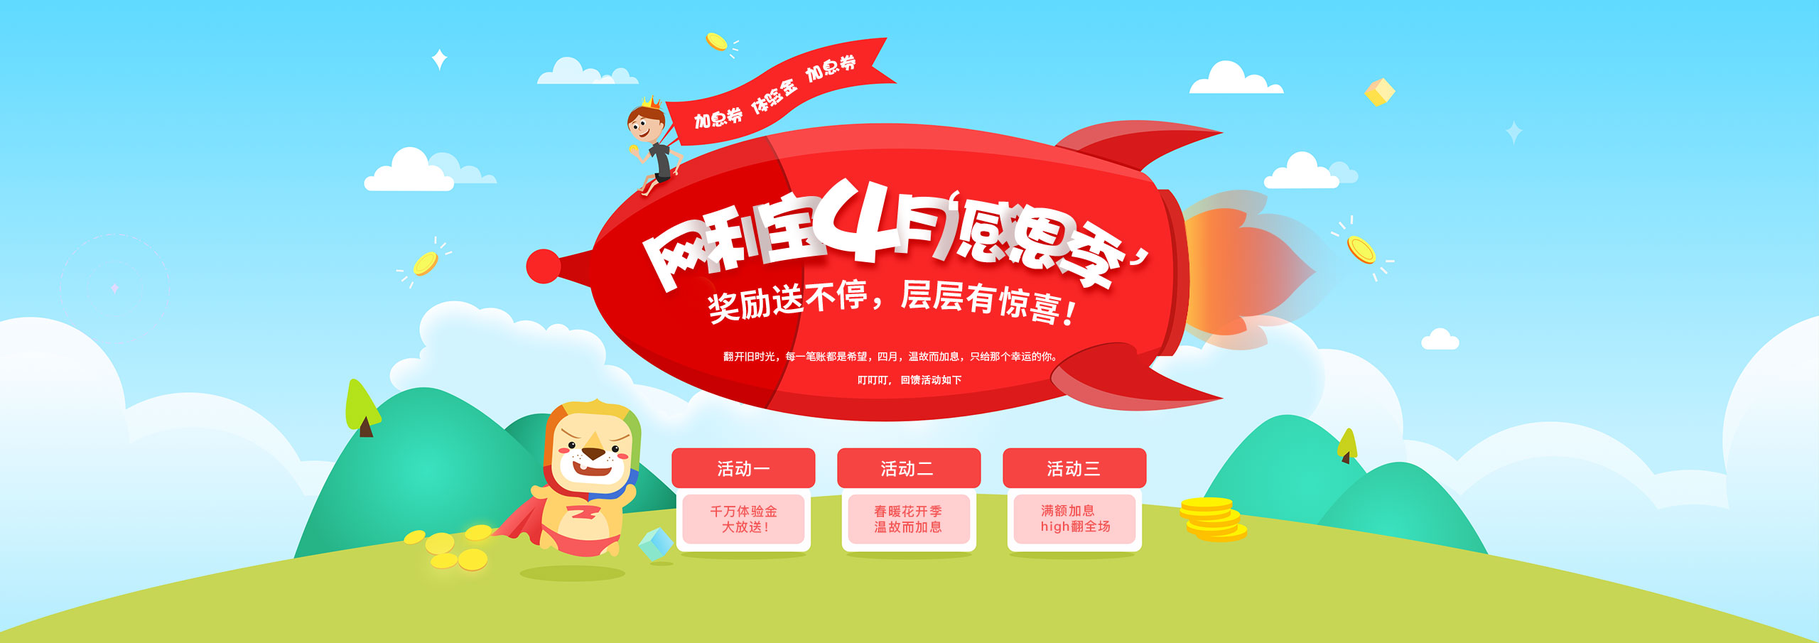
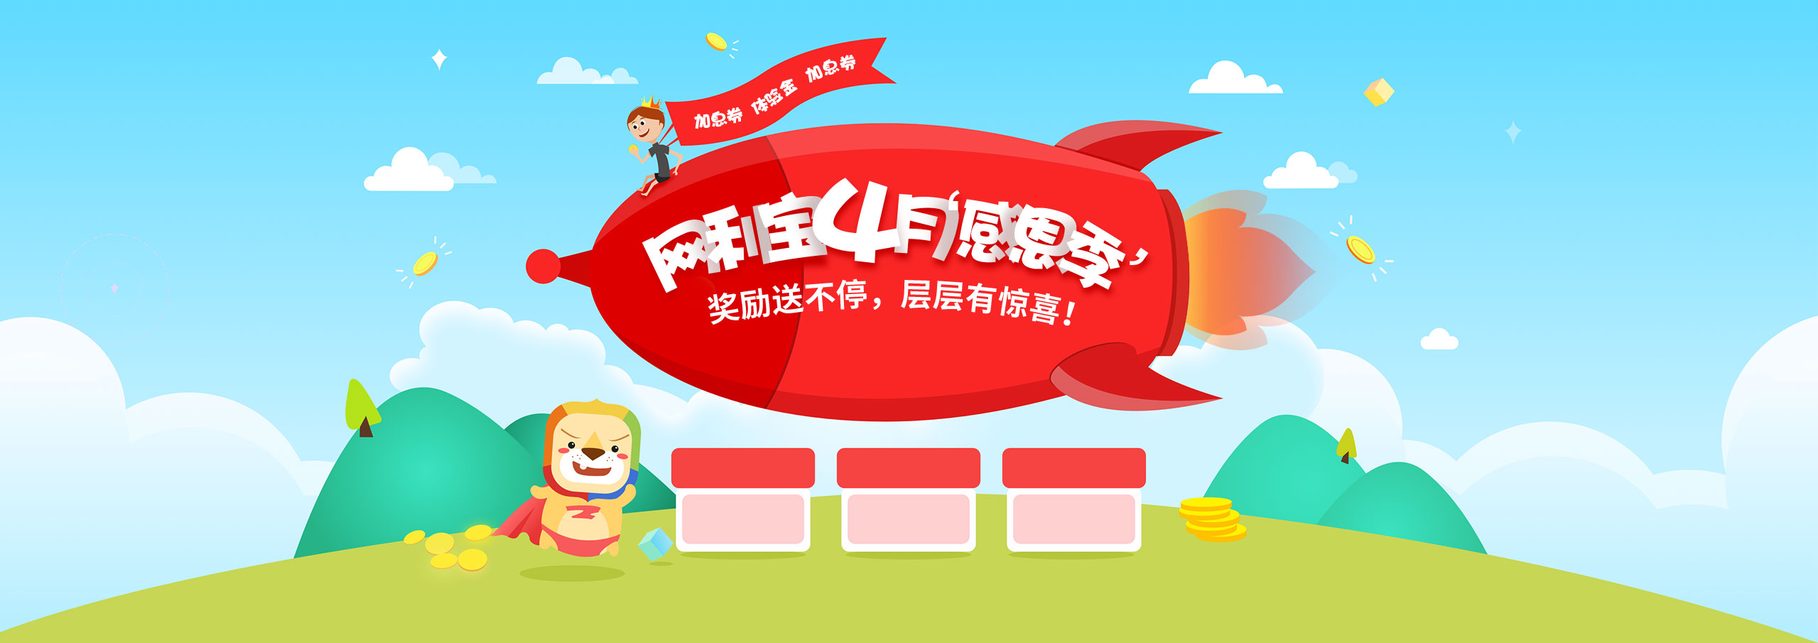
提交4月活动文字修改

diff --git a/static/styles/pc_activity/april_mobilization.css b/static/styles/pc_activity/april_mobilization.css
@@ -1,1 +1,1 @@
-.body_wrap{width:100%}.banner{width:100%;height:905px;background:url(/static/imgs/pc_activity/april_mobilization/banner.jpg) no-repeat center top}#main{width:100%;background-image:url(/static/imgs/pc_activity/april_mobilization/web_bg.jpg);background-color:#eee5bf;background-repeat:repeat-x}#main_center{width:1100px;display:block;margin:0 auto}#main_center .title_img{width:100%;display:block;text-align:center;color:#fff;font-size:40px}#main_center .title_img_1{height:86px;background:url(/static/imgs/pc_activity/april_mobilization/title_img_1.png);padding:0 338px 0 213px;line-height:86px}#main_center .title_small{width:100%;text-align:center;line-height:30px;color:#587d00;font-size:17px}#main_center .title_big_0{padding:25px 0 0 0}#main_center .title_small_1{padding:0 0 24px}#main_center .grass{position:absolute;z-index:2;width:85px;height:39px;display:block;background:url(/static/imgs/pc_activity/april_mobilization/grass.png)}#main_center .table{width:100%;position:relative}#main_center .table thead{width:100%;height:66px}#main_center .table thead th{height:66px;line-height:66px;text-align:center;color:#fff;font-size:22px;background:#a8ba3f;width:550px;padding:0}#main_center .table thead th:nth-child(odd){background:#a3b43d}#main_center .table tbody tr{height:60px;background:#e9e9e9}#main_center .table tbody tr td{width:550px;height:60px;line-height:60px;color:#587d00;font-size:18px;padding:0 0 0 268px;text-align:left}#main_center .table tbody tr td:nth-child(odd){padding:0 0 0 175px}#main_center .table tbody tr:nth-child(odd){background:#f7f7f7}#main_center .table .grass_1{left:-127px;top:105px}#main_center .table .grass_2{right:-112px;top:275px}#main_center .rule{width:100%;color:#587d00}#main_center .rule dt{font-size:20px;line-height:26px;padding-bottom:16px}#main_center .rule dd{font-size:14px;line-height:26px}#main_center .rule_1{padding:35px 0 45px}#main_center .title_img_2{height:86px;background:url(/static/imgs/pc_activity/april_mobilization/title_img_2.png);padding:0px 223px 0 329px;line-height:86px}#main_center .title_big{width:100%;text-align:center;line-height:36px;color:#587d00;font-size:24px}#main_center .title_big_1{padding-top:23px}#main_center .condition_wrap{width:100%;padding:22px 0px 0;display:inline-block;position:relative}#main_center .condition_wrap .box{float:left;width:187px;display:block;height:572px;position:relative;margin-right:41px}#main_center .condition_wrap .box .box_main{position:absolute;bottom:0;left:0}#main_center .condition_wrap .box .box_main .top_text{width:100%;text-align:center;line-height:24px;font-size:16px;color:#587d00;margin-bottom:14px}#main_center .condition_wrap .box .box_main .gold_img{width:98px;height:97px;background:url(/static/imgs/pc_activity/april_mobilization/gold_img.png);display:block;margin:0 auto 21px;font-size:24px;line-height:97px;text-align:center;color:#e3483d}#main_center .condition_wrap .box .box_main .column{width:187px;text-align:center;position:relative;margin-bottom:30px}#main_center .condition_wrap .box .box_main .column .text_box{width:100%;text-align:center;color:#7d4e0c;position:absolute;bottom:75px;left:0;z-index:2}#main_center .condition_wrap .box .box_main .column .text_box .text_1{line-height:26px;font-size:14px}#main_center .condition_wrap .box .box_main .column .text_box .text_2{line-height:20px;font-size:14px}#main_center .condition_wrap .box .box_main .column_1{height:177px;background:url(/static/imgs/pc_activity/april_mobilization/condition_img_1.png)}#main_center .condition_wrap .box .box_main .column_2{height:218px;background:url(/static/imgs/pc_activity/april_mobilization/condition_img_2.png)}#main_center .condition_wrap .box .box_main .column_3{height:263px;background:url(/static/imgs/pc_activity/april_mobilization/condition_img_3.png)}#main_center .condition_wrap .box .box_main .column_4{height:297px;background:url(/static/imgs/pc_activity/april_mobilization/condition_img_4.png)}#main_center .condition_wrap .box .box_main .column_5{height:337px;background:url(/static/imgs/pc_activity/april_mobilization/condition_img_5.png)}#main_center .condition_wrap .box .box_main .condition_footer{margin-top:30px;color:#5b7100;text-align:center}#main_center .condition_wrap .box .box_main .condition_footer .text_1{font-size:18px;line-height:26px}#main_center .condition_wrap .box .box_main .condition_footer .text_2{font-size:18px;line-height:22px}#main_center .condition_wrap .box_5{margin-right:0}#main_center .condition_wrap .grass_0{left:-378px;bottom:-37px}#main_center .rule_2{padding:55px 0 50px;position:relative}#main_center .title_img_3{height:86px;background:url(/static/imgs/pc_activity/april_mobilization/title_img_3.png) no-repeat left bottom;padding:80px 338px 0 213px;line-height:86px;position:relative}#main_center .all_text_1{width:100%;text-align:center;padding-top:40px;color:#587d00;font-size:36px;font-weight:bold;line-height:42px}#main_center .all_text_2{width:100%;text-align:center;color:#a3b43d;font-size:20px;line-height:28px}#main_center .num_wrap{display:inline-block;padding:34px 0 60px;position:relative;left:50%;top:0;height:177px}#main_center .num_wrap .num_1{width:63px;height:83px;margin-right:15px;background:url(/static/imgs/pc_activity/april_mobilization/num_1.png) no-repeat;float:left;display:block;font-size:65px;line-height:83px;text-align:center;color:#587d00}#main_center .num_wrap .num_2{width:9px;height:83px;background:url(/static/imgs/pc_activity/april_mobilization/num_2.png) no-repeat;float:left;display:block;margin:0 13px 0 3px}#main_center .num_wrap .num_3{width:9px;height:83px;background:url(/static/imgs/pc_activity/april_mobilization/num_3.png) no-repeat;float:left;display:block;margin:0 14px 0 2px}#main_center .num_wrap .last{margin-right:0}#main_center .table{width:100%;position:relative}#main_center .table thead{width:100%;height:68px}#main_center .table thead th{height:68px;line-height:68px;text-align:center;color:#fff;font-size:22px;background:#a8ba3f}#main_center .table thead th:nth-child(odd){background:#a3b43d}#main_center .table tbody tr{height:60px;background:#e9e9e9}#main_center .table tbody tr td{width:550px;height:60px;line-height:60px;color:#587d00;font-size:18px;text-align:left}#main_center .table tbody tr td.one{padding:0 0 0 34px}#main_center .table tbody tr td.two{padding:0 0 0 118px}#main_center .table tbody tr td.three{padding:0;text-align:center}#main_center .table tbody tr td.four{padding:0;text-align:center}#main_center .table tbody tr:nth-child(odd) td.one,#main_center .table tbody tr:nth-child(odd) td.three{background:#f7f7f7}#main_center .table tbody tr:nth-child(odd) td.two,#main_center .table tbody tr:nth-child(odd) td.four{background:#fff}#main_center .table tbody tr:nth-child(even) td.one,#main_center .table tbody tr:nth-child(even) td.three{background:#e9e9e9}#main_center .table tbody tr:nth-child(even) td.two,#main_center .table tbody tr:nth-child(even) td.four{background:#f1f1f1}#main_center .table .one{width:300px}#main_center .table .two{width:318px}#main_center .table .three{width:240px}#main_center .table .four{width:242px}#main_center .rule_3{padding:28px 0 82px;position:relative}#main_center .title_img_4{height:86px;background:url(/static/imgs/pc_activity/april_mobilization/title_img_2.png);padding:0px 223px 0 329px;line-height:86px;position:relative}#main_center .title_img_4 .grass_3{left:-335px;top:-206px}#main_center .title_big_2{padding:40px 0 38px}#main_center .ranking_main_2{width:100%;display:block;clear:both;padding-top:25px;position:relative;left:-1px}#main_center .ranking_main_2 .list_wrap{padding:15px 21px 15px;background:#a8ba3f;border-radius:5px;width:100%}#main_center .ranking_main_2 .list_wrap .list_main{width:100%;background:#fff;border-radius:5px;padding:26px 49px 0}#main_center .ranking_main_2 .list_wrap .list_main .title_box{width:100%;height:38px;border:1px #e3e3e3 solid;background:#f1f1f1;text-align:center;line-height:38px;color:#e1342f;font-size:24px;border-radius:5px}#main_center .ranking_main_2 .list_wrap .list_main table{width:100%}#main_center .ranking_main_2 .list_wrap .list_main table .one{width:255px}#main_center .ranking_main_2 .list_wrap .list_main table .two{width:418px}#main_center .ranking_main_2 .list_wrap .list_main table .three{width:286px}#main_center .ranking_main_2 .list_wrap .list_main table thead{height:78px}#main_center .ranking_main_2 .list_wrap .list_main table thead th{text-align:center;line-height:78px;font-size:20px;color:#333}#main_center .ranking_main_2 .list_wrap .list_main table tbody tr{height:50px}#main_center .ranking_main_2 .list_wrap .list_main table tbody tr:nth-child(odd){background:#f1f1f1}#main_center .ranking_main_2 .list_wrap .list_main table tbody .ico{width:25px;height:50px;float:left;display:block;background:url("/static/imgs/pc_activity/april_mobilization/ranking_ico.png") no-repeat 0 -150px;font-size:15px;text-align:center;line-height:53px;color:#fff;margin:0 20px 0 25px}#main_center .ranking_main_2 .list_wrap .list_main table tbody .phone{float:left;height:50px;line-height:50px;font-size:18px;margin-left:0}#main_center .ranking_main_2 .list_wrap .list_main table tbody tr.first .ico{background:url("/static/imgs/pc_activity/april_mobilization/ranking_ico.png") no-repeat 0 0px}#main_center .ranking_main_2 .list_wrap .list_main table tbody tr.second .ico{background:url("/static/imgs/pc_activity/april_mobilization/ranking_ico.png") no-repeat 0 -50px}#main_center .ranking_main_2 .list_wrap .list_main table tbody tr.third .ico{background:url("/static/imgs/pc_activity/april_mobilization/ranking_ico.png") no-repeat 0 -100px}#main_center .ranking_main_2 .list_wrap .list_main table tbody td{height:50px;line-height:50px;color:#333}#main_center .ranking_main_2 .list_wrap .list_main table tbody td.two{padding-left:170px;font-size:18px}#main_center .ranking_main_2 .list_wrap .list_main table tbody td.three{font-size:18px}#main_center .ranking_main_2 .list_wrap .list_main table tbody tr.first td,#main_center .ranking_main_2 .list_wrap .list_main table tbody tr.second td,#main_center .ranking_main_2 .list_wrap .list_main table tbody tr.third td{color:#ff4300}#main_center .ranking_main_2 .list_wrap .list_main .title_bottom{margin-top:10px;width:100%;border-top:1px #d2d2d2 solid;padding:12px 0 24px;line-height:20px;text-align:left;font-size:16px;color:#999}#main_center .ranking_main_2 .grass_4{right:-110px;top:510px}#main_center .rule_0{padding:20px 0 10px}.footer_bottom{width:100%;height:388px;background:url("/static/imgs/pc_activity/april_mobilization/footer_bottom.png") no-repeat center top;display:block}a.button_link{width:600px;height:90px;background:url("/static/imgs/pc_activity/april_mobilization/button_img.png") no-repeat center top;display:block;margin:0 auto;text-align:center;line-height:80px;color:#d37b01;font-size:30px;padding-top:0;cursor:pointer}a.button_link:active{background:url("/static/imgs/pc_activity/april_mobilization/button_act.png") no-repeat center top;padding-top:10px;line-height:80px}a.button_link_1{margin:0 auto 80px}a.button_link_2{margin:0 auto 70px}a.button_link_3{margin:0 auto 0px;position:relative;top:50px;left:0}
+.body_wrap{width:100%}.banner{width:100%;height:905px;background:url(/static/imgs/pc_activity/april_mobilization/banner.jpg) no-repeat center top;position:relative;left:0;top:0}.banner .text_1{position:absolute;left:0;top:466px;z-index:2;text-align:center;width:100%;line-height:32px;color:#fff;font-size:15px}.banner .banner_main{width:1100px;margin:0 auto;display:block;height:905px;position:relative}.banner dl{position:absolute;top:632px;z-index:2;width:172px;text-align:center}.banner dl dt{width:100%;color:#fff;font-size:24px;line-height:56px;padding-bottom:22px}.banner dl dd{line-height:22px;font-size:18px;color:#f5504f}.banner .dl_1{left:233px}.banner .dl_2{left:466px}.banner .dl_3{left:700px}#main{width:100%;background-image:url(/static/imgs/pc_activity/april_mobilization/web_bg.jpg);background-color:#eee5bf;background-repeat:repeat-x}#main_center{width:1100px;display:block;margin:0 auto}#main_center .title_img{width:100%;display:block;text-align:center;color:#fff;font-size:40px}#main_center .title_img_1{height:86px;background:url(/static/imgs/pc_activity/april_mobilization/title_img_1.png);padding:0 338px 0 213px;line-height:86px}#main_center .title_small{width:100%;text-align:center;line-height:30px;color:#587d00;font-size:17px}#main_center .title_big_0{padding:25px 0 0 0}#main_center .title_small_1{padding:0 0 24px}#main_center .grass{position:absolute;z-index:2;width:85px;height:39px;display:block;background:url(/static/imgs/pc_activity/april_mobilization/grass.png)}#main_center .table{width:100%;position:relative}#main_center .table thead{width:100%;height:66px}#main_center .table thead th{height:66px;line-height:66px;text-align:center;color:#fff;font-size:22px;background:#a8ba3f;width:550px;padding:0}#main_center .table thead th:nth-child(odd){background:#a3b43d}#main_center .table tbody tr{height:60px;background:#e9e9e9}#main_center .table tbody tr td{width:550px;height:60px;line-height:60px;color:#587d00;font-size:18px;padding:0 0 0 268px;text-align:left}#main_center .table tbody tr td:nth-child(odd){padding:0 0 0 175px}#main_center .table tbody tr:nth-child(odd){background:#f7f7f7}#main_center .table .grass_1{left:-127px;top:105px}#main_center .table .grass_2{right:-112px;top:275px}#main_center .rule{width:100%;color:#587d00}#main_center .rule dt{font-size:20px;line-height:26px;padding-bottom:16px}#main_center .rule dd{font-size:14px;line-height:26px}#main_center .rule_1{padding:35px 0 45px}#main_center .title_img_2{height:86px;background:url(/static/imgs/pc_activity/april_mobilization/title_img_2.png);padding:0px 223px 0 329px;line-height:86px}#main_center .title_big{width:100%;text-align:center;line-height:36px;color:#587d00;font-size:24px}#main_center .title_big_1{padding-top:23px}#main_center .condition_wrap{width:100%;padding:22px 0px 0;display:inline-block;position:relative}#main_center .condition_wrap .box{float:left;width:187px;display:block;height:572px;position:relative;margin-right:41px}#main_center .condition_wrap .box .box_main{position:absolute;bottom:0;left:0}#main_center .condition_wrap .box .box_main .top_text{width:100%;text-align:center;line-height:24px;font-size:16px;color:#587d00;margin-bottom:14px}#main_center .condition_wrap .box .box_main .gold_img{width:98px;height:97px;background:url(/static/imgs/pc_activity/april_mobilization/gold_img.png);display:block;margin:0 auto 21px;font-size:24px;line-height:97px;text-align:center;color:#e3483d}#main_center .condition_wrap .box .box_main .column{width:187px;text-align:center;position:relative;margin-bottom:30px}#main_center .condition_wrap .box .box_main .column .text_box{width:100%;text-align:center;color:#7d4e0c;position:absolute;bottom:75px;left:0;z-index:2}#main_center .condition_wrap .box .box_main .column .text_box .text_1{line-height:26px;font-size:14px}#main_center .condition_wrap .box .box_main .column .text_box .text_2{line-height:20px;font-size:14px}#main_center .condition_wrap .box .box_main .column_1{height:177px;background:url(/static/imgs/pc_activity/april_mobilization/condition_img_1.png)}#main_center .condition_wrap .box .box_main .column_2{height:218px;background:url(/static/imgs/pc_activity/april_mobilization/condition_img_2.png)}#main_center .condition_wrap .box .box_main .column_3{height:263px;background:url(/static/imgs/pc_activity/april_mobilization/condition_img_3.png)}#main_center .condition_wrap .box .box_main .column_4{height:297px;background:url(/static/imgs/pc_activity/april_mobilization/condition_img_4.png)}#main_center .condition_wrap .box .box_main .column_5{height:337px;background:url(/static/imgs/pc_activity/april_mobilization/condition_img_5.png)}#main_center .condition_wrap .box .box_main .condition_footer{margin-top:30px;color:#5b7100;text-align:center}#main_center .condition_wrap .box .box_main .condition_footer .text_1{font-size:18px;line-height:26px}#main_center .condition_wrap .box .box_main .condition_footer .text_2{font-size:18px;line-height:22px}#main_center .condition_wrap .box_5{margin-right:0}#main_center .condition_wrap .grass_0{left:-378px;bottom:-37px}#main_center .rule_2{padding:55px 0 50px;position:relative}#main_center .title_img_3{height:86px;background:url(/static/imgs/pc_activity/april_mobilization/title_img_3.png) no-repeat left bottom;padding:80px 338px 0 213px;line-height:86px;position:relative}#main_center .all_text_1{width:100%;text-align:center;padding-top:40px;color:#587d00;font-size:36px;font-weight:bold;line-height:42px}#main_center .all_text_2{width:100%;text-align:center;color:#a3b43d;font-size:20px;line-height:28px}#main_center .num_wrap{display:inline-block;padding:34px 0 60px;position:relative;left:50%;top:0;height:177px}#main_center .num_wrap .num_1{width:63px;height:83px;margin-right:15px;background:url(/static/imgs/pc_activity/april_mobilization/num_1.png) no-repeat;float:left;display:block;font-size:65px;line-height:83px;text-align:center;color:#587d00}#main_center .num_wrap .num_2{width:9px;height:83px;background:url(/static/imgs/pc_activity/april_mobilization/num_2.png) no-repeat;float:left;display:block;margin:0 13px 0 3px}#main_center .num_wrap .num_3{width:9px;height:83px;background:url(/static/imgs/pc_activity/april_mobilization/num_3.png) no-repeat;float:left;display:block;margin:0 14px 0 2px}#main_center .num_wrap .last{margin-right:0}#main_center .table{width:100%;position:relative}#main_center .table thead{width:100%;height:68px}#main_center .table thead th{height:68px;line-height:68px;text-align:center;color:#fff;font-size:22px;background:#a8ba3f}#main_center .table thead th:nth-child(odd){background:#a3b43d}#main_center .table tbody tr{height:60px;background:#e9e9e9}#main_center .table tbody tr td{width:550px;height:60px;line-height:60px;color:#587d00;font-size:18px;text-align:left}#main_center .table tbody tr td.one{padding:0 0 0 34px}#main_center .table tbody tr td.two{padding:0 0 0 118px}#main_center .table tbody tr td.three{padding:0;text-align:center}#main_center .table tbody tr td.four{padding:0;text-align:center}#main_center .table tbody tr:nth-child(odd) td.one,#main_center .table tbody tr:nth-child(odd) td.three{background:#f7f7f7}#main_center .table tbody tr:nth-child(odd) td.two,#main_center .table tbody tr:nth-child(odd) td.four{background:#fff}#main_center .table tbody tr:nth-child(even) td.one,#main_center .table tbody tr:nth-child(even) td.three{background:#e9e9e9}#main_center .table tbody tr:nth-child(even) td.two,#main_center .table tbody tr:nth-child(even) td.four{background:#f1f1f1}#main_center .table .one{width:300px}#main_center .table .two{width:318px}#main_center .table .three{width:240px}#main_center .table .four{width:242px}#main_center .rule_3{padding:28px 0 82px;position:relative}#main_center .title_img_4{height:86px;background:url(/static/imgs/pc_activity/april_mobilization/title_img_2.png);padding:0px 223px 0 329px;line-height:86px;position:relative}#main_center .title_img_4 .grass_3{left:-335px;top:-206px}#main_center .title_big_2{padding:40px 0 38px}#main_center .ranking_main_2{width:100%;display:block;clear:both;padding-top:25px;position:relative;left:-1px}#main_center .ranking_main_2 .list_wrap{padding:15px 21px 15px;background:#a8ba3f;border-radius:5px;width:100%}#main_center .ranking_main_2 .list_wrap .list_main{width:100%;background:#fff;border-radius:5px;padding:26px 49px 0}#main_center .ranking_main_2 .list_wrap .list_main .title_box{width:100%;height:38px;border:1px #e3e3e3 solid;background:#f1f1f1;text-align:center;line-height:38px;color:#e1342f;font-size:24px;border-radius:5px}#main_center .ranking_main_2 .list_wrap .list_main table{width:100%}#main_center .ranking_main_2 .list_wrap .list_main table .one{width:255px}#main_center .ranking_main_2 .list_wrap .list_main table .two{width:418px}#main_center .ranking_main_2 .list_wrap .list_main table .three{width:286px}#main_center .ranking_main_2 .list_wrap .list_main table thead{height:78px}#main_center .ranking_main_2 .list_wrap .list_main table thead th{text-align:center;line-height:78px;font-size:20px;color:#333}#main_center .ranking_main_2 .list_wrap .list_main table tbody tr{height:50px}#main_center .ranking_main_2 .list_wrap .list_main table tbody tr:nth-child(odd){background:#f1f1f1}#main_center .ranking_main_2 .list_wrap .list_main table tbody .ico{width:25px;height:50px;float:left;display:block;background:url("/static/imgs/pc_activity/april_mobilization/ranking_ico.png") no-repeat 0 -150px;font-size:15px;text-align:center;line-height:53px;color:#fff;margin:0 20px 0 25px}#main_center .ranking_main_2 .list_wrap .list_main table tbody .phone{float:left;height:50px;line-height:50px;font-size:18px;margin-left:0}#main_center .ranking_main_2 .list_wrap .list_main table tbody tr.first .ico{background:url("/static/imgs/pc_activity/april_mobilization/ranking_ico.png") no-repeat 0 0px}#main_center .ranking_main_2 .list_wrap .list_main table tbody tr.second .ico{background:url("/static/imgs/pc_activity/april_mobilization/ranking_ico.png") no-repeat 0 -50px}#main_center .ranking_main_2 .list_wrap .list_main table tbody tr.third .ico{background:url("/static/imgs/pc_activity/april_mobilization/ranking_ico.png") no-repeat 0 -100px}#main_center .ranking_main_2 .list_wrap .list_main table tbody td{height:50px;line-height:50px;color:#333}#main_center .ranking_main_2 .list_wrap .list_main table tbody td.two{padding-left:170px;font-size:18px}#main_center .ranking_main_2 .list_wrap .list_main table tbody td.three{font-size:18px}#main_center .ranking_main_2 .list_wrap .list_main table tbody tr.first td,#main_center .ranking_main_2 .list_wrap .list_main table tbody tr.second td,#main_center .ranking_main_2 .list_wrap .list_main table tbody tr.third td{color:#ff4300}#main_center .ranking_main_2 .list_wrap .list_main .title_bottom{margin-top:10px;width:100%;border-top:1px #d2d2d2 solid;padding:12px 0 24px;line-height:20px;text-align:left;font-size:16px;color:#999}#main_center .ranking_main_2 .grass_4{right:-110px;top:510px}#main_center .rule_0{padding:20px 0 10px}.footer_bottom{width:100%;height:388px;background:url("/static/imgs/pc_activity/april_mobilization/footer_bottom.png") no-repeat center top;display:block}a.button_link{width:600px;height:90px;background:url("/static/imgs/pc_activity/april_mobilization/button_img.png") no-repeat center top;display:block;margin:0 auto;text-align:center;line-height:80px;color:#d37b01;font-size:30px;padding-top:0;cursor:pointer}a.button_link:active{background:url("/static/imgs/pc_activity/april_mobilization/button_act.png") no-repeat center top;padding-top:10px;line-height:80px}a.button_link_1{margin:0 auto 80px}a.button_link_2{margin:0 auto 70px}a.button_link_3{margin:0 auto 0px;position:relative;top:50px;left:0}

diff --git a/static/js/april_mobilization.js b/static/js/april_mobilization.js
@@ -97,28 +97,29 @@
 
                     var rankingList = [];
                     var json_one;
-                    for(var i=1; i<json.weekranks.length; i++){
+                    for(var i=0; i<json.weekranks.length; i++){
                         json_one = json.weekranks[i];
                         if(json_one!=''){
                             var number = fmoney(json_one.amount__sum, 0);
-                            if(i<=3){
-                                if(i==1){
+                            if(i<3){
+                                if(i==0){
                                     rankingList.push(['<tr class="first">'].join(''));
-                                }else if(i==2){
+                                }else if(i==1){
                                     rankingList.push(['<tr class="second">'].join(''));
-                                }else if(i==3){
+                                }else if(i==2){
                                     rankingList.push(['<tr class="third">'].join(''));
                                 }
                                 rankingList.push(['<td class="one"><span class="ico"></span><span class="phone">'+json_one.phone.substring(0,3)+'****' +json_one.phone.substr(json_one.phone.length-4) +'</span></td><td class="two">'+number+'元</td><td class="three">'].join(''));
-                                if(i==1){
+                                if(i==0){
                                     rankingList.push(['5张百元加油卡+2张星美电影票</td></tr>'].join(''));
-                                }else if(i==2){
+                                }else if(i==1){
                                     rankingList.push(['3张百元加油卡+2张星美电影票</td></tr>'].join(''));
-                                }else if(i==3){
+                                }else if(i==2){
                                     rankingList.push(['2张百元加油卡+2张星美电影票</td></tr>'].join(''));
                                 }
                             }else{
-                                rankingList.push(['<tr><td class="one"><span class="ico">'+i+'</span><span class="phone">'+json_one.phone.substring(0,3)+'****' +json_one.phone.substr(json_one.phone.length-4) +'</span></td><td class="two">'+number+'元</td><td class="three">1张百元加油卡+2张星美电影票</td></tr>'].join(''));
+                                var i_num = i+1;
+                                rankingList.push(['<tr><td class="one"><span class="ico">'+i_num+'</span><span class="phone">'+json_one.phone.substring(0,3)+'****' +json_one.phone.substr(json_one.phone.length-4) +'</span></td><td class="two">'+number+'元</td><td class="three">1张百元加油卡+2张星美电影票</td></tr>'].join(''));
                             }
 
                         }else{

diff --git a/static/scss/pc_activity/april_mobilization.sass b/static/scss/pc_activity/april_mobilization.sass
@@ -4,6 +4,48 @@
   width: 100%
   height: 905px
   background: url(/static/imgs/pc_activity/april_mobilization/banner.jpg) no-repeat center top
+  position: relative
+  left: 0
+  top: 0
+  .text_1
+    position: absolute
+    left: 0
+    top: 466px
+    z-index: 2
+    text-align: center
+    width: 100%
+    line-height: 32px
+    color: #fff
+    font-size: 15px
+  .banner_main
+    width: 1100px
+    margin: 0 auto
+    display: block
+    height: 905px
+    position: relative
+  dl
+    position: absolute
+    top: 632px
+    z-index: 2
+    width: 172px
+    text-align: center
+    dt
+      width: 100%
+      color: #fff
+      font-size: 24px
+      line-height: 56px
+      padding-bottom: 22px
+
+    dd
+      line-height: 22px
+      font-size: 18px
+      color: #f5504f
+  .dl_1
+    left: 233px
+  .dl_2
+    left: 466px
+  .dl_3
+    left: 700px
 #main
   width: 100%
   background-image: url(/static/imgs/pc_activity/april_mobilization/web_bg.jpg)
